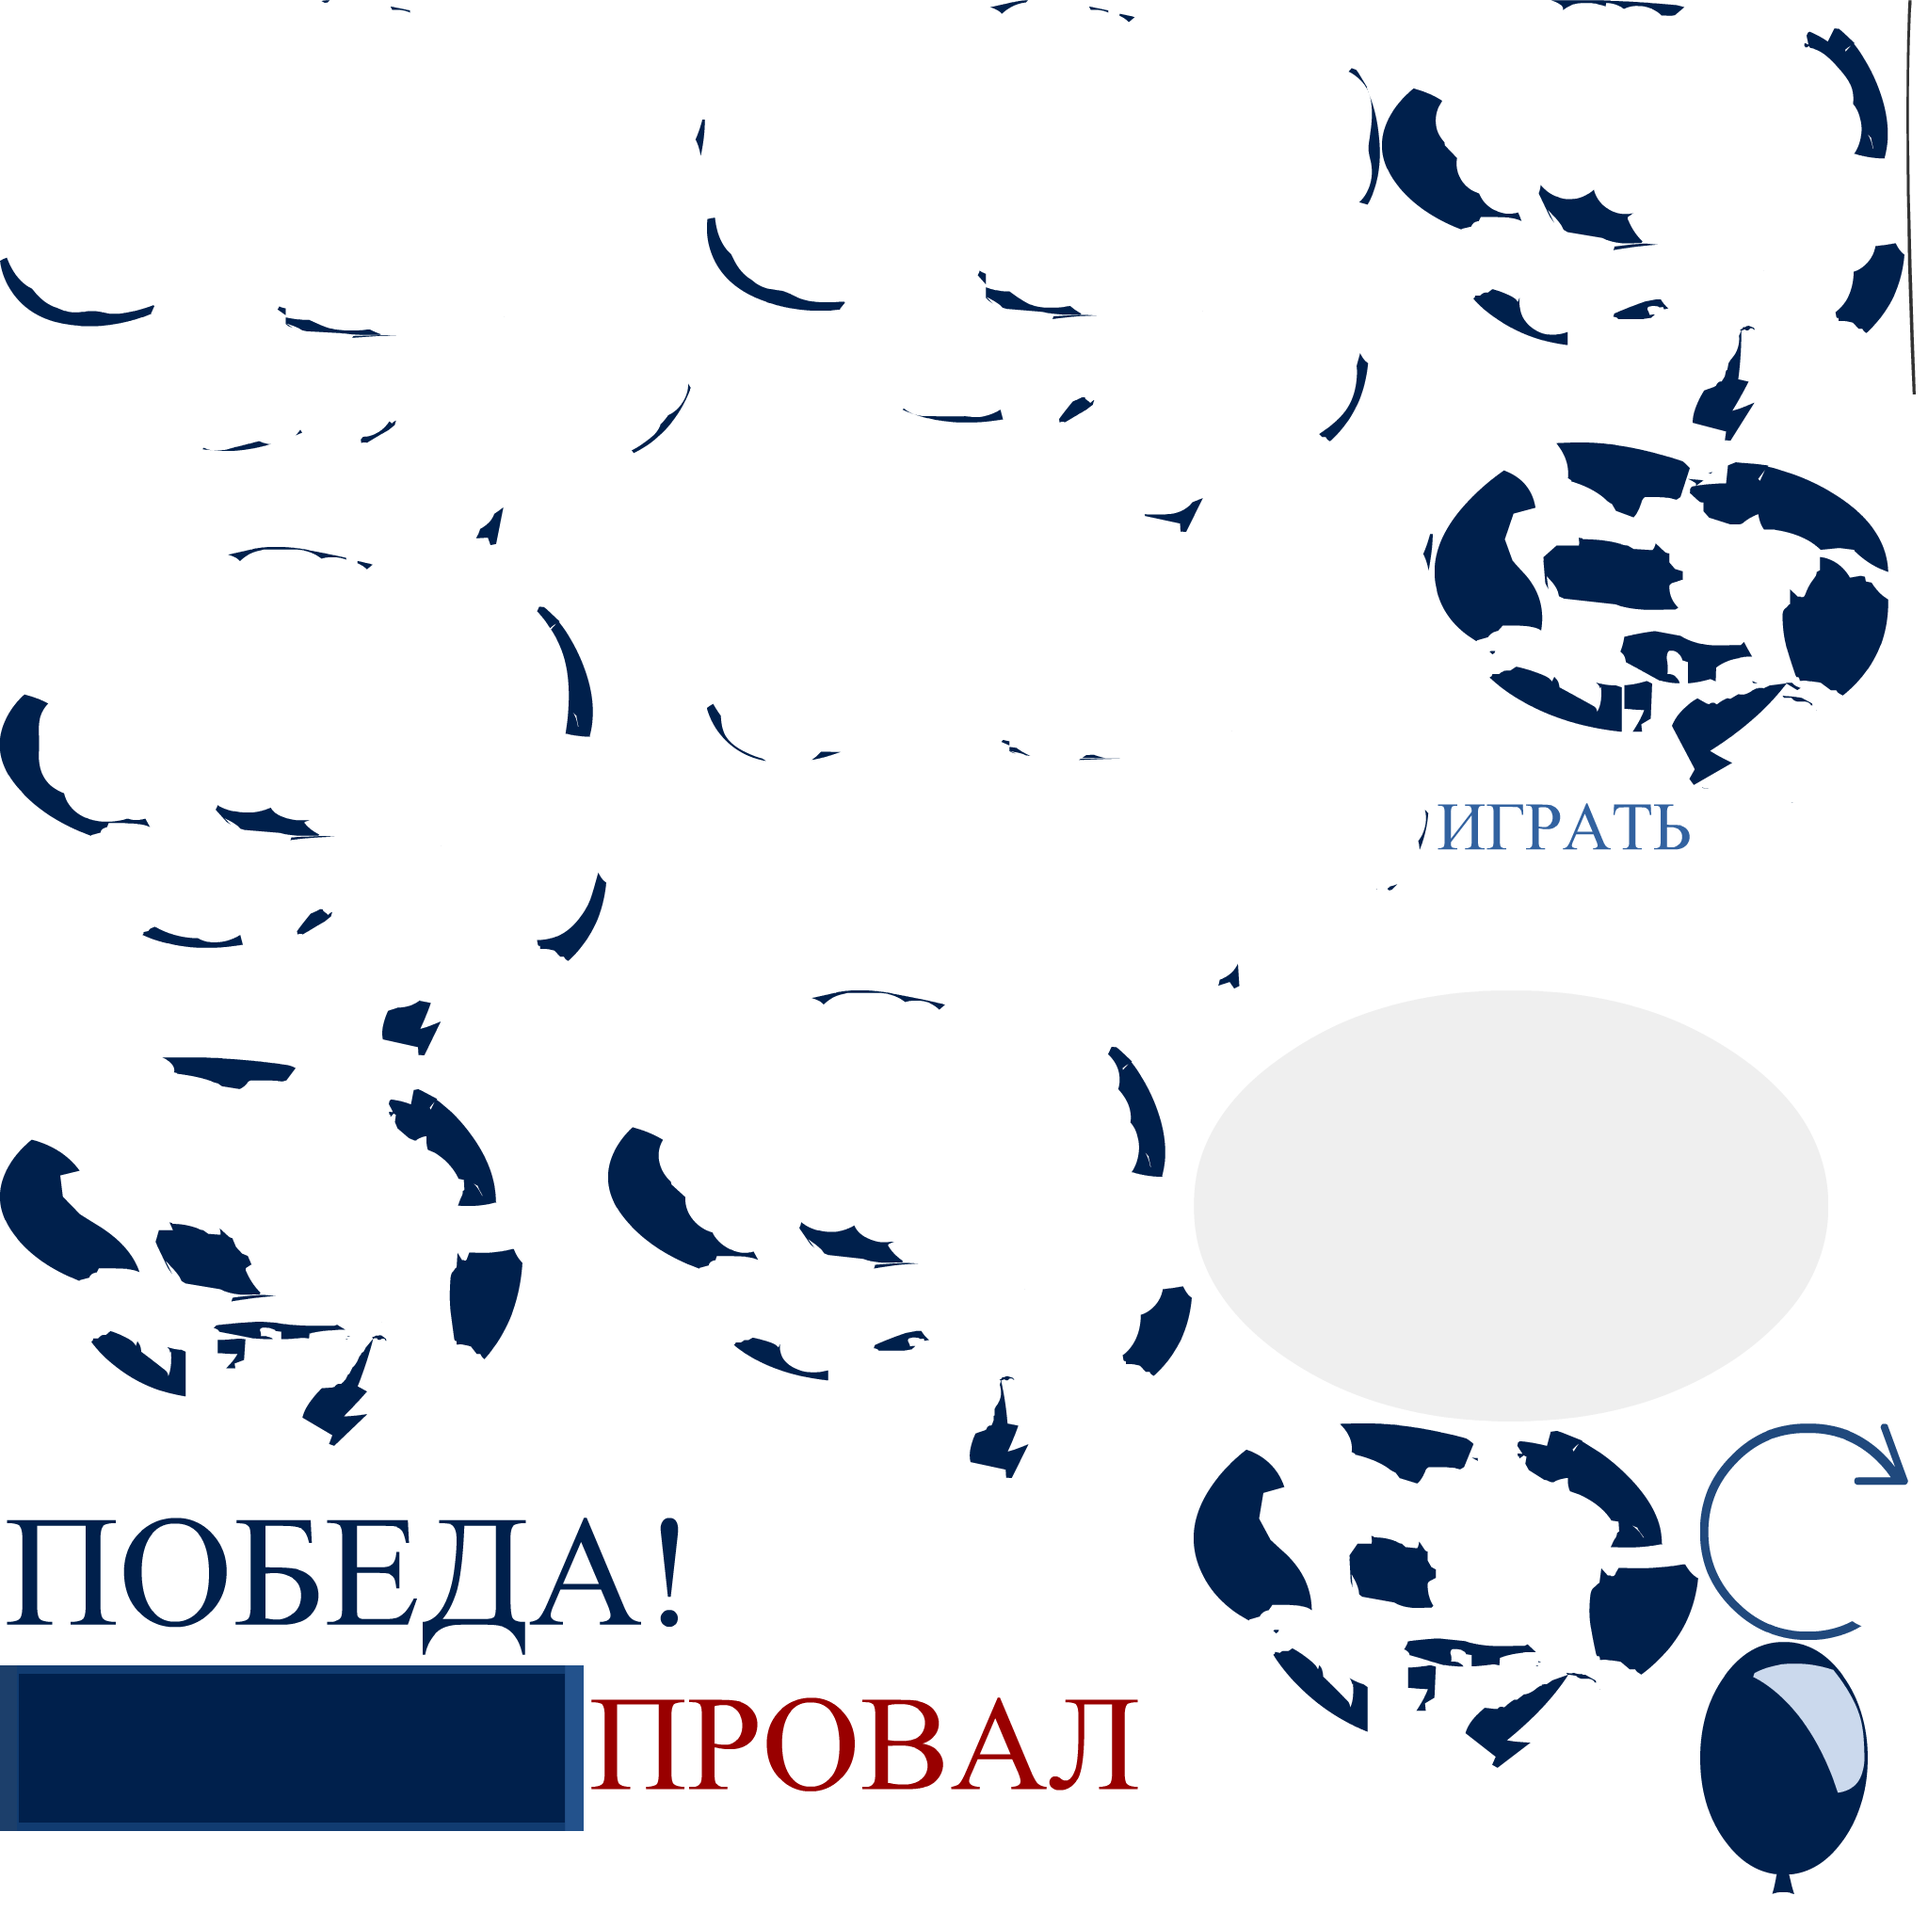
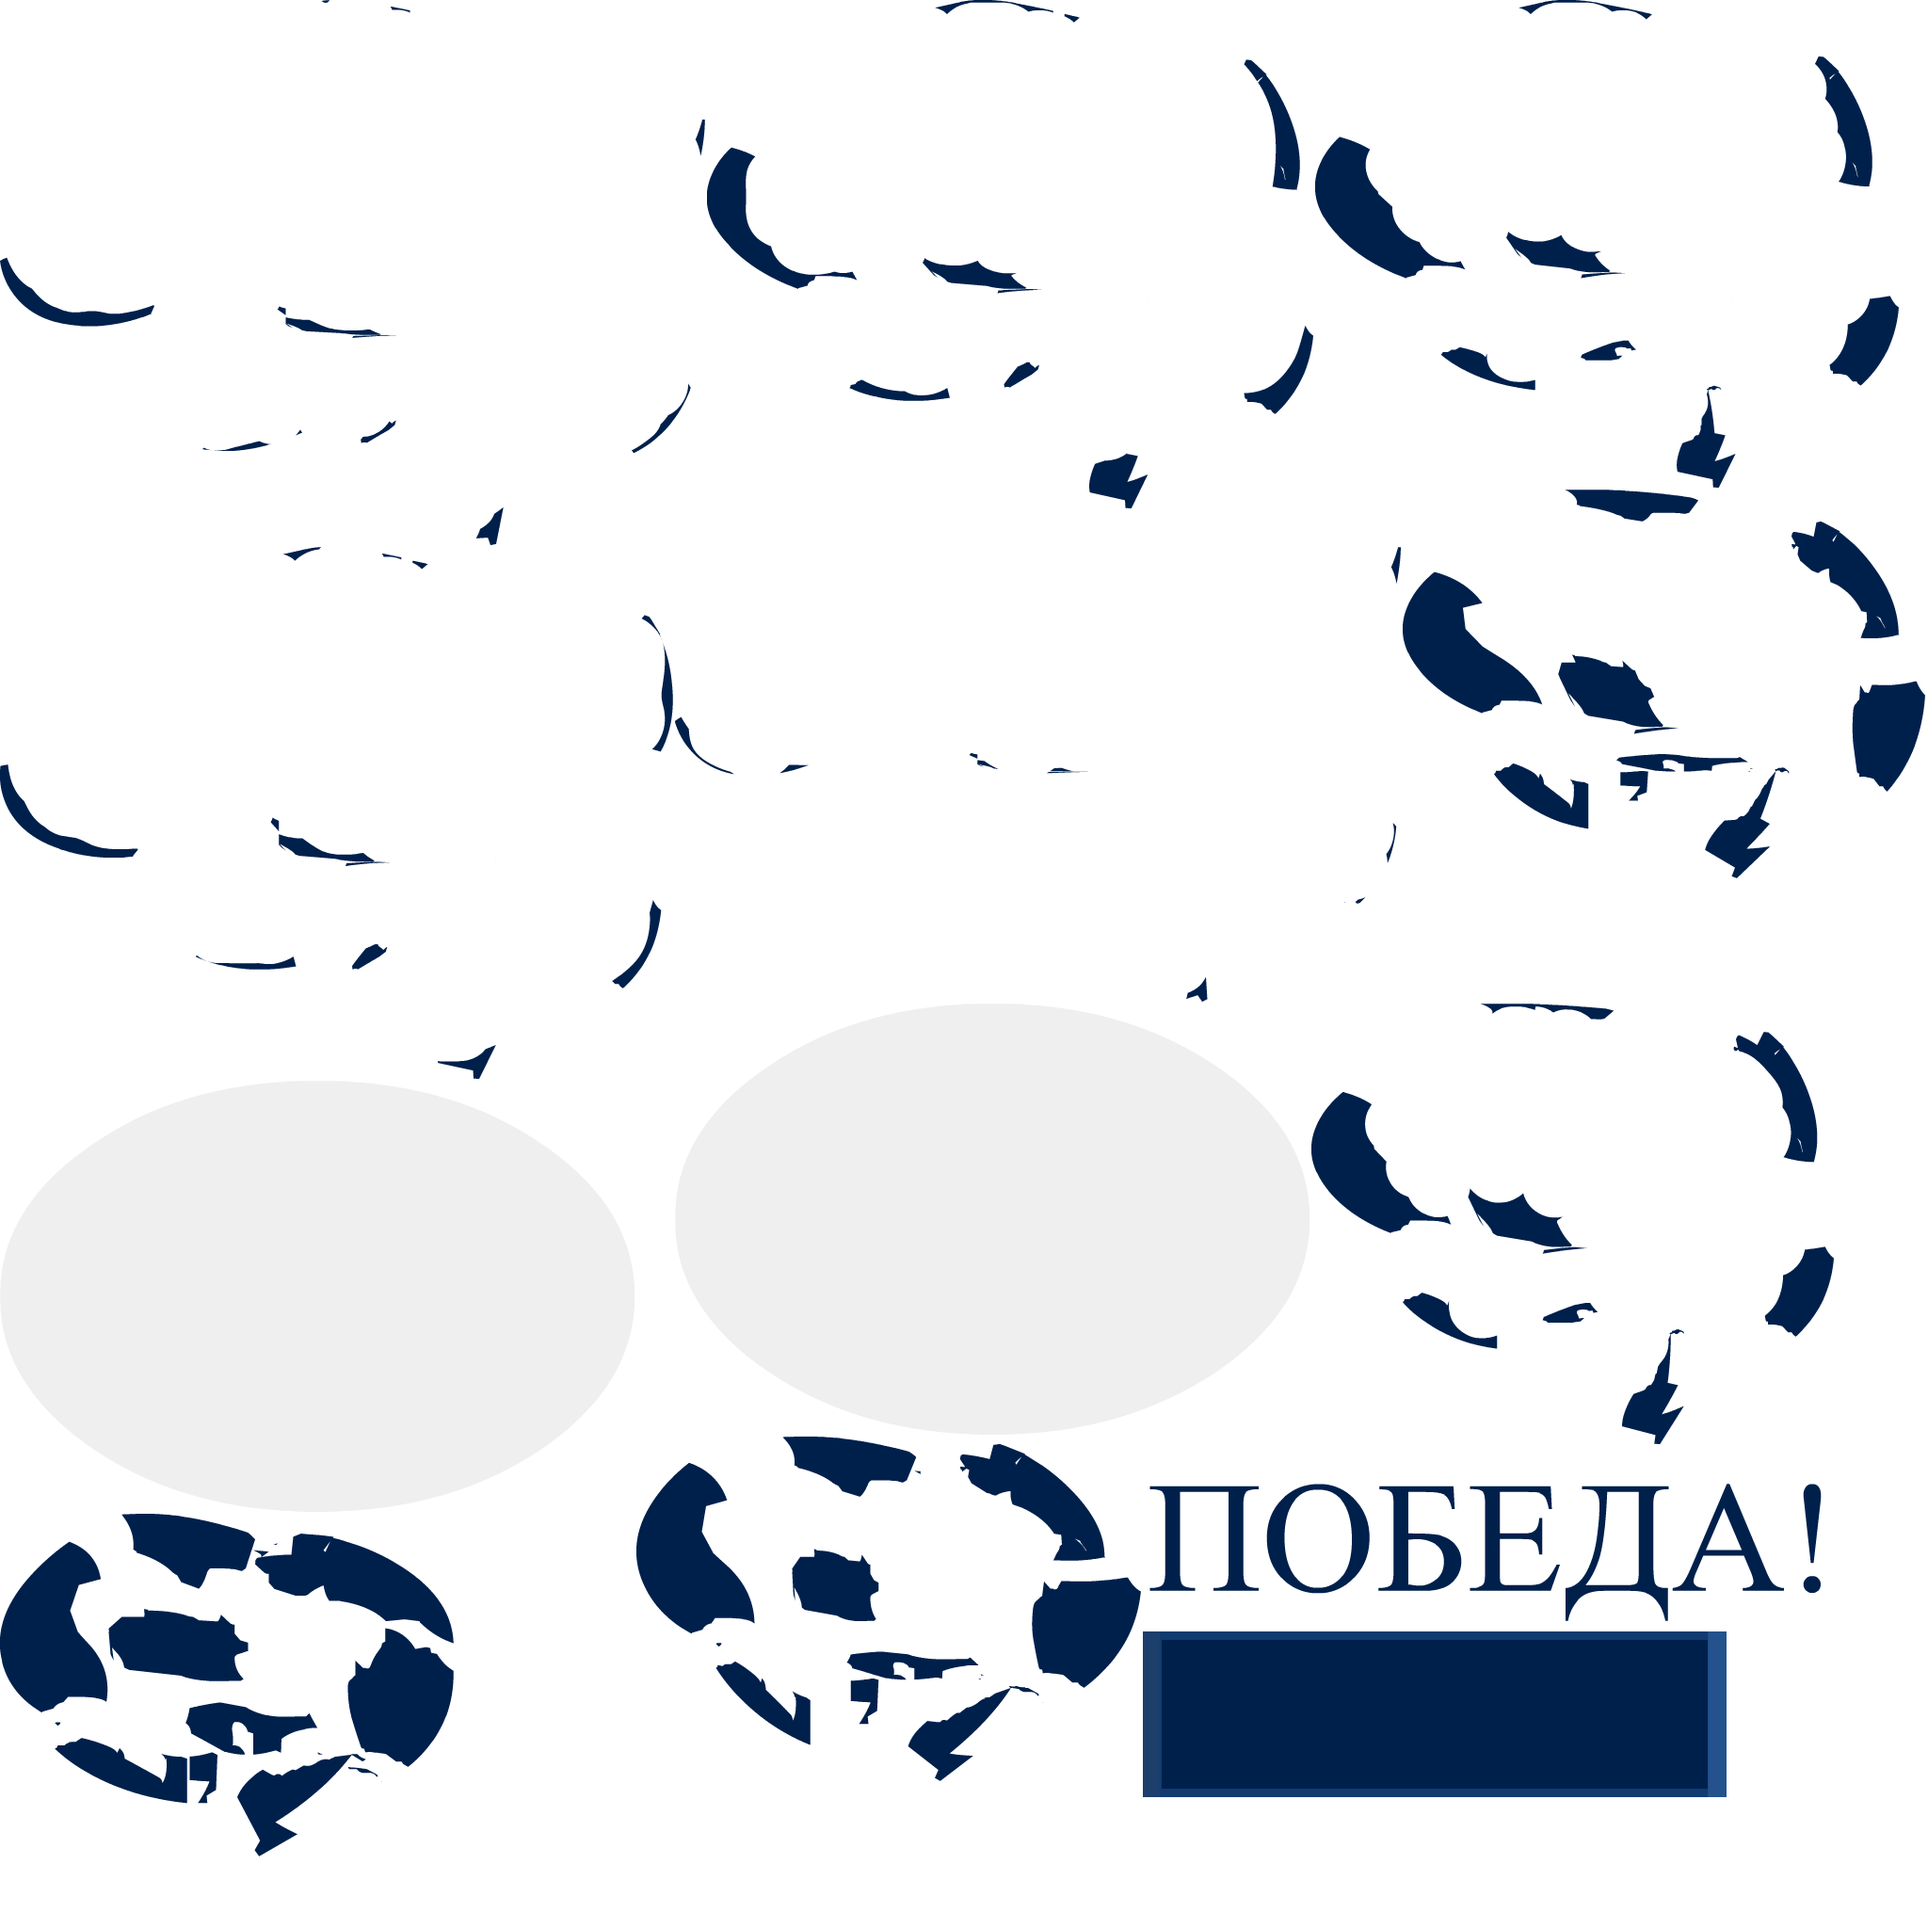
Improvements

diff --git a/Balloons.js b/Balloons.js
@@ -3,7 +3,8 @@
 var p; // shortcut to reference prototypes
 var lib={};var ss={};var img={};
 lib.ssMetadata = [
-		{name:"Balloons_atlas_", frames: [[1268,1052,674,458],[2025,0,10,419],[1808,836,124,20],[751,567,771,483],[0,0,749,579],[751,0,715,565],[0,581,644,540],[646,1052,620,518],[1468,0,555,468],[0,1123,555,413],[1268,1512,536,366],[1524,470,482,364],[0,1769,620,176],[1806,1744,178,268],[1806,1512,221,230],[0,1572,753,195],[622,1769,594,167],[1524,836,282,84]]}
+		{name:"Balloons_atlas_", frames: [[717,1066,674,458],[0,1148,674,458],[717,581,771,483],[0,0,749,579],[0,581,715,565],[751,0,644,540],[1397,0,620,518],[1393,1066,555,468],[1490,520,555,413],[676,1526,536,366],[0,1608,482,364],[1214,1733,620,176],[1214,1536,753,195]]},
+		{name:"Balloons_atlas_2", frames: [[999,0,10,419],[284,169,124,20],[819,0,178,268],[596,0,221,230],[0,0,594,167],[0,169,282,84]]}
 ];
 
 
@@ -11,128 +12,135 @@ lib.ssMetadata = [
 
 
 
-(lib.CachedBmp_18 = function() {
+(lib.CachedBmp_19копия = function() {
 	this.initialize(ss["Balloons_atlas_"]);
 	this.gotoAndStop(0);
 }).prototype = p = new cjs.Sprite();
 
 
 
-(lib.CachedBmp_17 = function() {
+(lib.CachedBmp_19 = function() {
 	this.initialize(ss["Balloons_atlas_"]);
 	this.gotoAndStop(1);
 }).prototype = p = new cjs.Sprite();
 
 
 
+(lib.CachedBmp_17 = function() {
+	this.initialize(ss["Balloons_atlas_2"]);
+	this.gotoAndStop(0);
+}).prototype = p = new cjs.Sprite();
+
+
+
 (lib.CachedBmp_15 = function() {
-	this.initialize(ss["Balloons_atlas_"]);
-	this.gotoAndStop(2);
+	this.initialize(ss["Balloons_atlas_2"]);
+	this.gotoAndStop(1);
 }).prototype = p = new cjs.Sprite();
 
 
 
 (lib.CachedBmp_14 = function() {
 	this.initialize(ss["Balloons_atlas_"]);
-	this.gotoAndStop(3);
+	this.gotoAndStop(2);
 }).prototype = p = new cjs.Sprite();
 
 
 
 (lib.CachedBmp_13 = function() {
 	this.initialize(ss["Balloons_atlas_"]);
-	this.gotoAndStop(4);
+	this.gotoAndStop(3);
 }).prototype = p = new cjs.Sprite();
 
 
 
 (lib.CachedBmp_12 = function() {
 	this.initialize(ss["Balloons_atlas_"]);
-	this.gotoAndStop(5);
+	this.gotoAndStop(4);
 }).prototype = p = new cjs.Sprite();
 
 
 
 (lib.CachedBmp_11 = function() {
 	this.initialize(ss["Balloons_atlas_"]);
-	this.gotoAndStop(6);
+	this.gotoAndStop(5);
 }).prototype = p = new cjs.Sprite();
 
 
 
 (lib.CachedBmp_10 = function() {
 	this.initialize(ss["Balloons_atlas_"]);
-	this.gotoAndStop(7);
+	this.gotoAndStop(6);
 }).prototype = p = new cjs.Sprite();
 
 
 
 (lib.CachedBmp_9 = function() {
 	this.initialize(ss["Balloons_atlas_"]);
-	this.gotoAndStop(8);
+	this.gotoAndStop(7);
 }).prototype = p = new cjs.Sprite();
 
 
 
 (lib.CachedBmp_8 = function() {
 	this.initialize(ss["Balloons_atlas_"]);
-	this.gotoAndStop(9);
+	this.gotoAndStop(8);
 }).prototype = p = new cjs.Sprite();
 
 
 
 (lib.CachedBmp_7 = function() {
 	this.initialize(ss["Balloons_atlas_"]);
-	this.gotoAndStop(10);
+	this.gotoAndStop(9);
 }).prototype = p = new cjs.Sprite();
 
 
 
 (lib.CachedBmp_6 = function() {
 	this.initialize(ss["Balloons_atlas_"]);
-	this.gotoAndStop(11);
+	this.gotoAndStop(10);
 }).prototype = p = new cjs.Sprite();
 
 
 
 (lib.CachedBmp_5 = function() {
 	this.initialize(ss["Balloons_atlas_"]);
-	this.gotoAndStop(12);
+	this.gotoAndStop(11);
 }).prototype = p = new cjs.Sprite();
 
 
 
 (lib.CachedBmp_4 = function() {
-	this.initialize(ss["Balloons_atlas_"]);
-	this.gotoAndStop(13);
+	this.initialize(ss["Balloons_atlas_2"]);
+	this.gotoAndStop(2);
 }).prototype = p = new cjs.Sprite();
 
 
 
 (lib.CachedBmp_3 = function() {
-	this.initialize(ss["Balloons_atlas_"]);
-	this.gotoAndStop(14);
+	this.initialize(ss["Balloons_atlas_2"]);
+	this.gotoAndStop(3);
 }).prototype = p = new cjs.Sprite();
 
 
 
 (lib.CachedBmp_2 = function() {
 	this.initialize(ss["Balloons_atlas_"]);
-	this.gotoAndStop(15);
+	this.gotoAndStop(12);
 }).prototype = p = new cjs.Sprite();
 
 
 
 (lib.CachedBmp_1 = function() {
-	this.initialize(ss["Balloons_atlas_"]);
-	this.gotoAndStop(16);
+	this.initialize(ss["Balloons_atlas_2"]);
+	this.gotoAndStop(4);
 }).prototype = p = new cjs.Sprite();
 
 
 
 (lib.Растровоеизображение1 = function() {
-	this.initialize(ss["Balloons_atlas_"]);
-	this.gotoAndStop(17);
+	this.initialize(ss["Balloons_atlas_2"]);
+	this.gotoAndStop(5);
 }).prototype = p = new cjs.Sprite();
 // helper functions:
 
@@ -275,15 +283,18 @@ p.nominalBounds = new cjs.Rectangle(0.1,-36.9,322.5,120.5);
 	this.timeline.addTween(cjs.Tween.get(this.instance).wait(1).to({startPosition:0},0).wait(1).to({startPosition:0},0).wait(1).to({startPosition:0},0).wait(1).to({startPosition:0},0).wait(1).to({startPosition:0},0).wait(1).to({startPosition:0},0).wait(1).to({startPosition:0},0).wait(1).to({startPosition:0},0).wait(1).to({startPosition:0},0).wait(1).to({startPosition:0},0).wait(1).to({startPosition:0},0).wait(1).to({startPosition:0},0).wait(1).to({startPosition:0},0).wait(1).to({startPosition:0},0).wait(1).to({startPosition:0},0).wait(1).to({startPosition:0},0).wait(1).to({scaleX:0.992,y:331.7},0).wait(1).to({scaleX:0.984,x:188.05,y:302.3},0).wait(1).to({scaleX:0.9761,y:272.85},0).wait(1).to({scaleX:0.9681,x:188,y:243.4},0).wait(1).to({regX:0.1,scaleX:0.9744,x:188.1,y:213.95},0).wait(1).to({scaleX:0.9808,y:184.5},0).wait(1).to({regX:0,scaleX:0.9872,x:187.95,y:155.1},0).wait(1).to({scaleX:0.9936,y:125.65},0).wait(1).to({scaleX:1,x:188,y:96.2},0).wait(1).to({scaleY:0.9608,x:188.05},0).wait(1).to({scaleY:0.9217,x:188},0).wait(1).to({regX:0.1,scaleY:0.9478,x:188.05},0).wait(1).to({regY:0.1,scaleY:0.9739,x:188,y:96.3},0).wait(1).to({regX:0,regY:0,scaleY:1,y:96.2},0).wait(1));
 
 	// Слой_2
-	this.instance_1 = new lib.CachedBmp_18();
+	this.instance_1 = new lib.CachedBmp_19();
 	this.instance_1.setTransform(24,237.9,0.5,0.5);
 
-	this.timeline.addTween(cjs.Tween.get(this.instance_1).wait(31));
+	this.instance_2 = new lib.CachedBmp_19копия();
+	this.instance_2.setTransform(24,-28.65,0.5,0.5);
+
+	this.timeline.addTween(cjs.Tween.get({}).to({state:[{t:this.instance_1}]}).to({state:[{t:this.instance_2}]},30).wait(1));
 
 	this._renderFirstFrame();
 
 }).prototype = p = new cjs.MovieClip();
-p.nominalBounds = new cjs.Rectangle(-0.1,-5.9,376.20000000000005,472.79999999999995);
+p.nominalBounds = new cjs.Rectangle(-0.1,-28.6,376.20000000000005,495.5);
 
 
 (lib.loser = function(mode,startPosition,loop) {
@@ -602,6 +613,7 @@ lib.properties = {
 	opacity: 1.00,
 	manifest: [
 		{src:"images/Balloons_atlas_.png", id:"Balloons_atlas_"},
+		{src:"images/Balloons_atlas_2.png", id:"Balloons_atlas_2"},
 		{src:"sounds/popSFX.mp3", id:"popSFX"},
 		{src:"sounds/bgMusicSFX.mp3", id:"bgMusicSFX"},
 		{src:"sounds/winSFX.mp3", id:"winSFX"}
